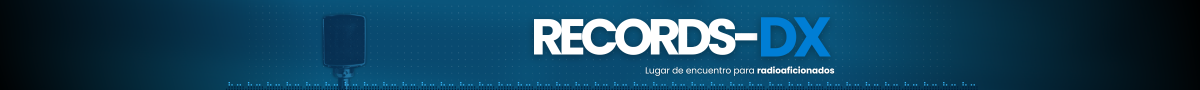
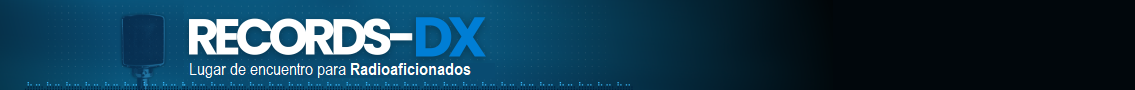
mejoras varias

diff --git a/records-dx-fe/src/components/Register.tsx b/records-dx-fe/src/components/Register.tsx
@@ -89,23 +89,23 @@ import {URL_SERVICES} from '../config_env/env';
     };
    
     return(
-      <div className='wrapper'>
-            <div className='form-wrapper'>
-               <h2>Registro de usuario</h2>
+      <div>
+         <div className='row'> 
+         <div className="col-md-4 offset-md-4">
+            <h2>Registro de usuario</h2>
                <div><hr /></div>
                <Form noValidate validated={validated} onSubmit={handleSubmit}>
-               <Form.Group as={Col} md="12" controlId="validationCustom01">
+               <Form.Group as={Col} controlId="validationCustom01">
                   <div className='username'>
                      <label htmlFor="username">Nombre del usuario</label>
                      <Form.Control 
                         type='text'
                         id='username' name='username'
                         size="sm"
-                        placeholder="Ingrese su alias/nombre de usuario"
                         onChange={(e) => setUserName(e.target.value)}
                         required />
                      <Form.Control.Feedback type="invalid">
-                            Please choose a username.
+                     Ingrese su alias/nombre de usuario.
                      </Form.Control.Feedback>
                   </div>
                   <div className='email'>
@@ -113,27 +113,33 @@ import {URL_SERVICES} from '../config_env/env';
                      <Form.Control type='email'
                         id='email' name='email'
                         size="sm"
-                        placeholder="Ingrese su correo electrónico"
                         onChange={(e) => setEmail(e.target.value)}
                         required />
+                         <Form.Control.Feedback type="invalid">
+                           Ingrese su correo electrónico.
+                         </Form.Control.Feedback>
                   </div>
                   <div className='password'>
                      <label htmlFor="password">Contraseña</label>
                      <Form.Control type='password'
                         id='password' name='password'
                         size="sm"
-                        placeholder="Ingrese su contraseña"
-                        onChange={(e) => setPassword(e.target.value)}
+                         onChange={(e) => setPassword(e.target.value)}
                         required />
+                         <Form.Control.Feedback type="invalid">
+                           Ingrese su contraseña.
+                         </Form.Control.Feedback>
                   </div>
                   <div className='password'>
                      <label htmlFor="password">Confirme su Contraseña</label>
                      <Form.Control type='password'
                         id='passwordConfirm' name='passwordConfirm'
                         size="sm"
-                        placeholder="Confirme su contraseña"
-                        onChange={(e) => setPasswordConfirm(e.target.value)}
+                         onChange={(e) => setPasswordConfirm(e.target.value)}
                         required />
+                         <Form.Control.Feedback type="invalid">
+                           confirme su contraseña.
+                         </Form.Control.Feedback>
                   </div>
                   <div>API Status: {statusMessage}</div>
                   <div className='row'>
@@ -153,6 +159,7 @@ import {URL_SERVICES} from '../config_env/env';
               </Form>
             </div>
          </div>
+      </div>
     );
 }
 

diff --git a/records-dx-fe/src/public/styles/styles.module.css b/records-dx-fe/src/public/styles/styles.module.css
@@ -1,23 +1,23 @@
 .divBanner {
     color: DodgerBlue;
     width: 100%;
-    color: black;
-    text-align: center;
-    background-color:#000204;
+    color: #01070c;
+    text-align: left;
+    background-color:#01070c;
   }
 
   .pHome {
     color: rgb(3, 3, 61);
     text-indent: 12px;
     text-transform:none;
-    font-family:'Helvetica Now', 'Courier New', Courier, monospace;
+    font-family:'Arial Rounded MT Bold','Helvetica Now', 'Courier New', Courier, monospace;
     font-size:14px;
   }
 
   .hTitle {
     color: rgb(116, 3, 3);
     text-indent: 0px;
-    font-family:'Helvetica Now','Courier New', Courier, monospace;
+    font-family:'Arial Rounded MT Bold','Helvetica Now','Courier New', Courier, monospace;
     font-size:20px
   }
 

diff --git a/records-dx-fe/src/components/HeaderPage.tsx b/records-dx-fe/src/components/HeaderPage.tsx
@@ -7,17 +7,13 @@ export interface IBannerProps {banner: string;}
 
 const  HeaderPage:  React.FunctionComponent<IBannerProps> = (props) => {
   return <div>
-    <Row >
-      <Col>
-      </Col>
-      <Col sm={12}>
+    <div className='row' >
+      <div className="col-md-12">
           <div className={styles.divBanner}>
             <img src={props.banner} alt="Records-dx.com" ></img>
           </div>
-      </Col>
-      <Col>
-      </Col>
-    </Row>
+      </div>
+    </div>
   </div>
 }
 

diff --git a/records-dx-fe/src/pages/Register.tsx b/records-dx-fe/src/pages/Register.tsx
@@ -1,7 +1,7 @@
 import React from 'react';
 import MenuHorizontal from '../components/MenuHorizontal';
 import HeaderPage from '../components/HeaderPage';
-import banner from '../img/ban_register.png';
+import banner from '../img/banner.png';
 import Footer from '../components/Footer';
 import { SignUp } from '../components/SignUp';
 import Register from '../components/Register';

diff --git a/records-dx-fe/src/pages/exchanges.tsx b/records-dx-fe/src/pages/exchanges.tsx
@@ -1,7 +1,7 @@
 import React from 'react';
 import MenuHorizontal from '../components/MenuHorizontal';
 import HeaderPage from '../components/HeaderPage';
-import banner from '../img/ban_exchanges.png';
+import banner from '../img/banner.png';
 import Footer from '../components/Footer';
 
 export interface IExchangePageProps {}

diff --git a/records-dx-fe/src/pages/directory.tsx b/records-dx-fe/src/pages/directory.tsx
@@ -1,7 +1,7 @@
 import React from 'react';
 import MenuHorizontal from '../components/MenuHorizontal';
 import HeaderPage from '../components/HeaderPage';
-import banner from '../img/ban_directy.png';
+import banner from '../img/banner.png';
 import Footer from '../components/Footer';
 
 export interface IDirectoryPageProps {}

diff --git a/records-dx-fe/src/pages/supplies.tsx b/records-dx-fe/src/pages/supplies.tsx
@@ -1,7 +1,7 @@
 import React from 'react';
 import MenuHorizontal from '../components/MenuHorizontal';
 import HeaderPage from '../components/HeaderPage';
-import banner from '../img/ban_supplies.png';
+import banner from '../img/banner.png';
 import Footer from '../components/Footer';
 
 export interface ISuppliesPageProps {}

diff --git a/records-dx-fe/src/pages/myGoals.tsx b/records-dx-fe/src/pages/myGoals.tsx
@@ -1,7 +1,7 @@
 import React from 'react';
 import MenuHorizontal from '../components/MenuHorizontal';
 import HeaderPage from '../components/HeaderPage';
-import banner from '../img/ban_mygoals.png';
+import banner from '../img/banner.png';
 import Footer from '../components/Footer';
 
 export interface IMyGoalsPageProps {}

diff --git a/records-dx-fe/src/pages/others.tsx b/records-dx-fe/src/pages/others.tsx
@@ -1,7 +1,7 @@
 import React from 'react';
 import MenuHorizontal from '../components/MenuHorizontal';
 import HeaderPage from '../components/HeaderPage';
-import banner from '../img/ban_others.png';
+import banner from '../img/banner.png';
 import Footer from '../components/Footer';
 
 export interface IOthersPageProps {}

diff --git a/records-dx-fe/src/pages/LogIn.tsx b/records-dx-fe/src/pages/LogIn.tsx
@@ -1,7 +1,7 @@
 import React from 'react';
 import MenuHorizontal from '../components/MenuHorizontal';
 import HeaderPage from '../components/HeaderPage';
-import banner from '../img/ban_login.png';
+import banner from '../img/banner.png';
 import Footer from '../components/Footer';
 
 export interface ILogInPageProps {}

diff --git a/records-dx-fe/src/pages/books.tsx b/records-dx-fe/src/pages/books.tsx
@@ -1,7 +1,7 @@
 import React from 'react';
 import MenuHorizontal from '../components/MenuHorizontal';
 import HeaderPage from '../components/HeaderPage';
-import banner from '../img/ban_books.png';
+import banner from '../img/banner.png';
 import Footer from '../components/Footer';
 
 export interface IBooksPageProps {}

diff --git a/records-dx-fe/src/pages/video.tsx b/records-dx-fe/src/pages/video.tsx
@@ -1,7 +1,7 @@
 import React from 'react';
 import MenuHorizontal from '../components/MenuHorizontal';
 import HeaderPage from '../components/HeaderPage';
-import banner from '../img/ban_video.png';
+import banner from '../img/banner.png';
 import Footer from '../components/Footer';
 
 export interface IVideoPageProps {}
